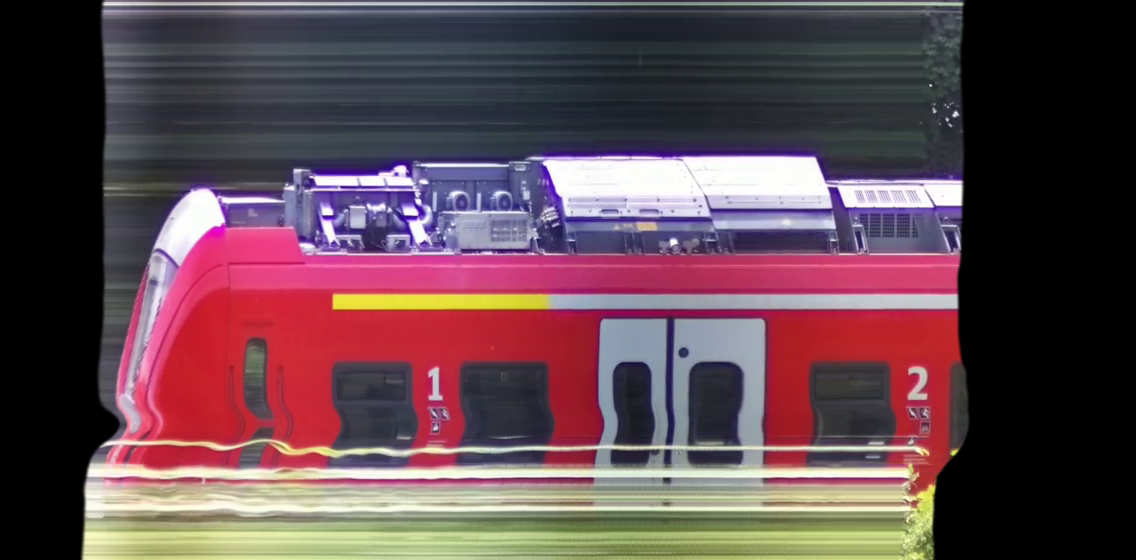
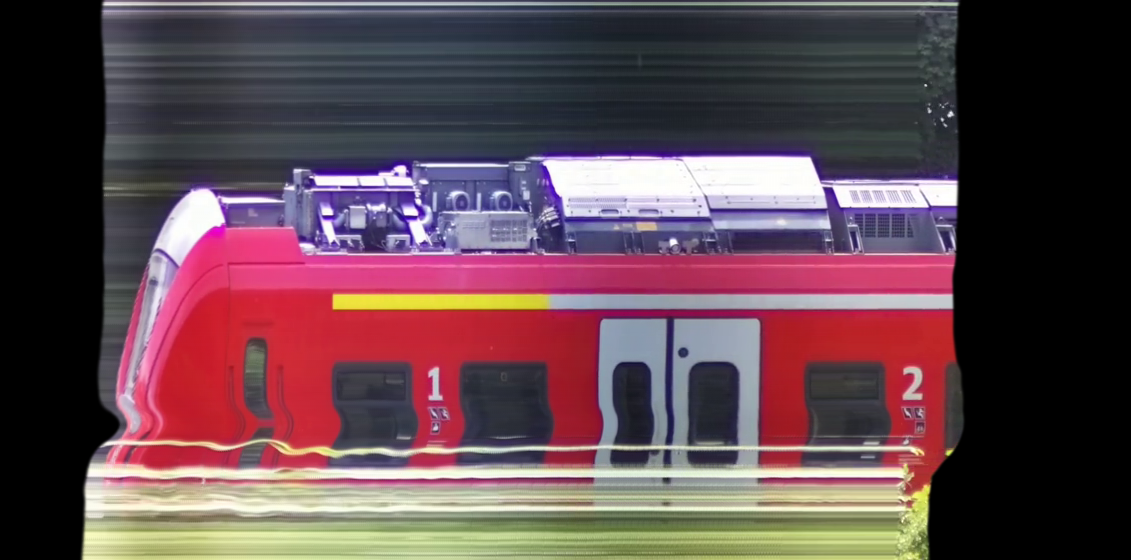
fix t=0 for some frames

diff --git a/crates/core/src/fit.rs b/crates/core/src/fit.rs
@@ -71,8 +71,8 @@ pub(crate) fn fit_dx(
     // FIXME: rewrite this with iterators and zip/unzip
     // dt_complete[i] = seconds since previous frame (or startTS for i=0).
     // t_complete[i]  = seconds since startTS, only set for non-zero dx frames.
-    let mut dt_complete = vec![0.0f64; n];
-    let mut t_complete = vec![0.0f64; n]; // 0-initialized; zero-dx frames stay 0
+    let mut dt_complete = Vec::with_capacity(n);
+    let mut t_complete = Vec::with_capacity(n);
 
     let mut t_fit: Vec<f64> = Vec::with_capacity(n);
     let mut v_fit: Vec<f64> = Vec::with_capacity(n);
@@ -83,14 +83,15 @@ pub(crate) fn fit_dx(
         } else {
             seq.ts[i].duration_since(seq.ts[i - 1]).as_secs_f64()
         };
-        dt_complete[i] = dt_c;
+        dt_complete.push(dt_c);
+
+        let t_i = seq.ts[i].duration_since(start_ts).as_secs_f64();
+        t_complete.push(t_i);
 
         if seq.dx[i] == 0 {
             continue;
         }
 
-        let t_i = seq.ts[i].duration_since(start_ts).as_secs_f64();
-        t_complete[i] = t_i;
         t_fit.push(t_i);
         v_fit.push(seq.dx[i] as f64 / dt_c);
     }
@@ -130,13 +131,12 @@ pub(crate) fn fit_dx(
         }
         dx_fit[i] = dx_round as i32;
     }
+    debug_plot.add_fit(seq, &dt_complete, &t_complete, &fit, &dx_fit);
 
     let v0 = fit[0];
     let a = fit[1];
     let t_last = *t_fit.last().expect("at least one non-zero dx");
     let ds = (v0 * t_last + 0.5 * a * t_last * t_last).abs();
-
-    debug_plot.add_fit(seq, dt_complete, t_complete, fit, &dx_fit);
 
     Ok(FitDx { dx_fit, ds, v0, a })
 }
@@ -151,14 +151,7 @@ mod debug_plot {
         pub(crate) fn new(_: &Sequence) -> DebugPlot {
             DebugPlot {}
         }
-        pub(crate) fn add_fit(
-            &mut self,
-            _: &Sequence,
-            _: Vec<f64>,
-            _: Vec<f64>,
-            _: Vec<f64>,
-            _: &Vec<i32>,
-        ) {
+        pub(crate) fn add_fit(&mut self, _: &Sequence, _: &[f64], _: &[f64], _: &[f64], _: &[i32]) {
         }
     }
 }
@@ -189,8 +182,8 @@ mod debug_plot {
                         .duration_since(first_ts)
                         .as_secs_f64()
                         .ceil(),
-                    f64::from(*seq.dx.iter().min().unwrap())
-                        ..f64::from(*seq.dx.iter().max().unwrap()),
+                    f64::from(*seq.dx.iter().min().unwrap()) - 2.0
+                        ..f64::from(*seq.dx.iter().max().unwrap()) + 2.0,
                 )
                 .unwrap();
 
@@ -212,10 +205,10 @@ mod debug_plot {
         pub(crate) fn add_fit(
             &mut self,
             seq: &Sequence,
-            dt_complete: Vec<f64>,
-            t_complete: Vec<f64>,
-            fit: Vec<f64>,
-            dx_fit: &Vec<i32>,
+            dt_complete: &[f64],
+            t_complete: &[f64],
+            fit: &[f64],
+            dx_fit: &[i32],
         ) {
             // fit function
             self.ctx
